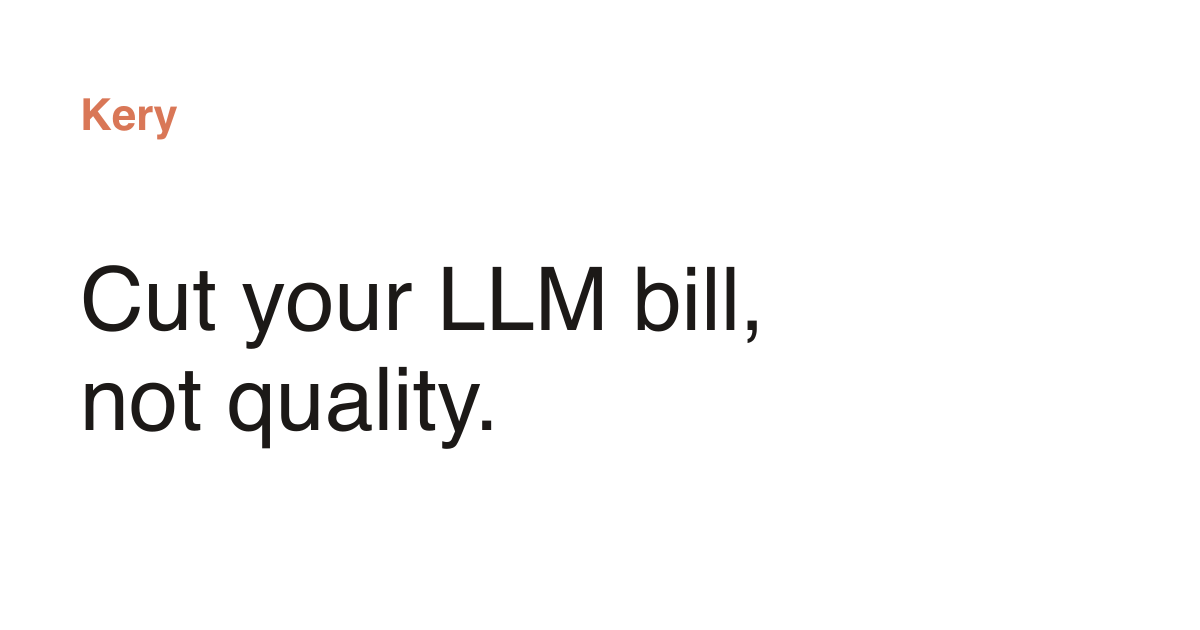
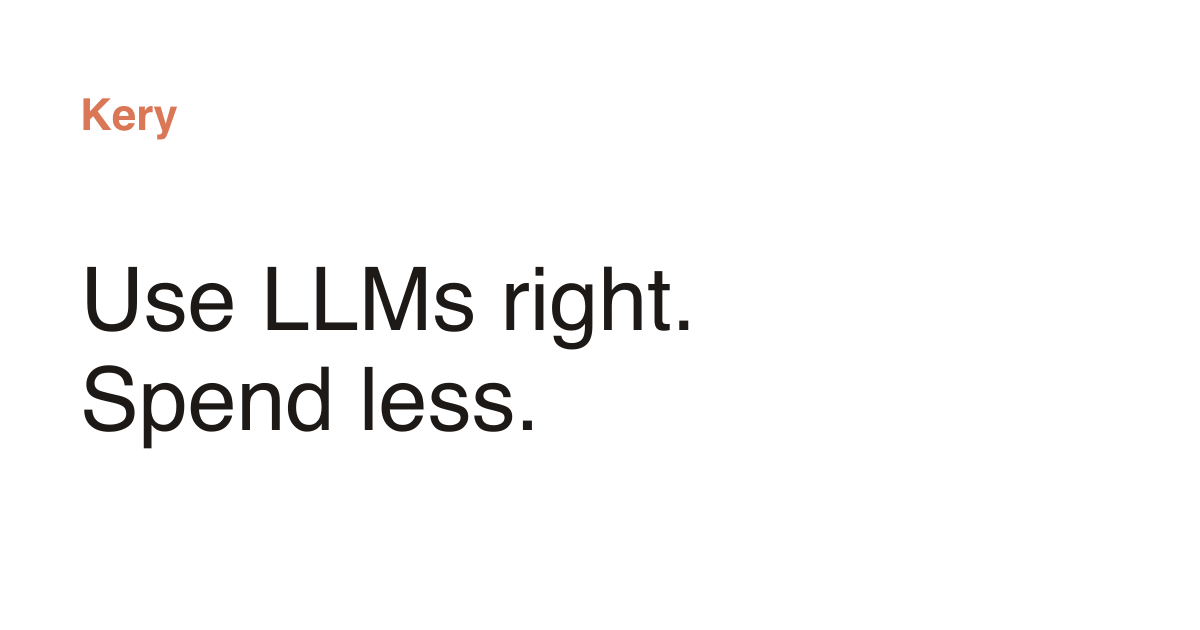
Lead with using LLMs right and stretch chart to full width

Changed region(s): [[0.0617, 0.4222, 0.6475, 0.573], [0.0617, 0.573, 0.4625, 0.7238]]

diff --git a/src/components/sections/BillChart.tsx b/src/components/sections/BillChart.tsx
@@ -10,11 +10,11 @@ function columnHeight(index: number) {
 
 export default function BillChart({ animate = false }: { animate?: boolean }) {
   return (
-    <div aria-hidden="true" className="mask-dots flex h-full items-end justify-center">
+    <div aria-hidden="true" className="mask-dots flex h-full items-end">
       {Array.from({ length: COLUMNS }, (_, index) => (
         <div
           key={index}
-          className="w-2 shrink-0 origin-bottom bg-gradient-to-t from-savings to-savings/50 motion-safe:[animation:column-rise_900ms_ease-out_backwards]"
+          className="min-w-0 flex-1 origin-bottom bg-gradient-to-t from-savings to-savings/50 motion-safe:[animation:column-rise_900ms_ease-out_backwards]"
           style={{
             height: `${columnHeight(index)}%`,
             animationDelay: animate ? `${index * 3}ms` : undefined,

diff --git a/src/config/site.ts b/src/config/site.ts
@@ -9,13 +9,13 @@ export const SITE_NAME = 'Kery';
 export const SITE_ORIGIN = 'https://kery.dev';
 
 export const seo = {
-  title: 'Kery — Cut your LLM bill without compromising quality',
+  title: 'Kery — Use LLMs right, spend less',
   description:
     'Kery finds the cost and speed gains across your entire AI stack, and ships them without compromising quality. Book a free cost audit.',
 };
 
 export const hero = {
-  headline: 'Cut your LLM bill, not quality.',
+  headline: 'Use LLMs right. Spend less.',
   subhead:
     'We find the cost and speed gains across your entire AI stack, and ship them.',
   primaryCta: 'Book a free cost audit',

diff --git a/src/components/sections/Hero.tsx b/src/components/sections/Hero.tsx
@@ -8,7 +8,7 @@ export default function Hero() {
       <div className="absolute inset-x-0 bottom-0 h-72">
         <BillChart animate />
       </div>
-      <div className="relative mx-auto max-w-6xl px-4 pt-20 pb-64 sm:pt-28 sm:pb-72">
+      <div className="relative mx-auto max-w-6xl px-4 pt-20 pb-80 sm:pt-28">
         <div className="mx-auto max-w-5xl text-center">
           <h1 className="text-5xl leading-none sm:text-7xl">{hero.headline}</h1>
           <p className="mx-auto mt-6 max-w-3xl text-lg text-balance text-muted-foreground sm:text-xl">{hero.subhead}</p>
